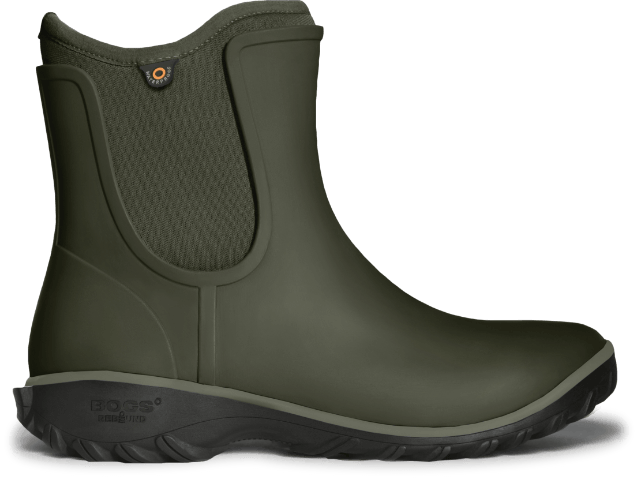
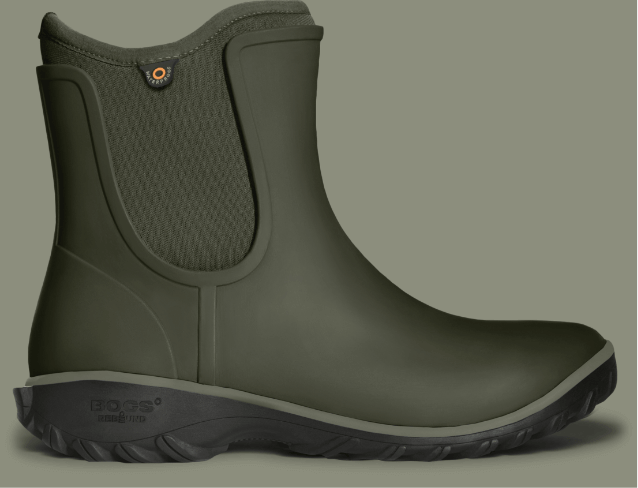
Shadow on images fixed
Shadow on images fixed

diff --git a/temp/scripts/App.js b/temp/scripts/App.js
@@ -1308,20 +1308,6 @@ $(document).on(
   ".feature-product__aug .feature_slider__slide.swiper-slide-prev",
   function () {
     window.featuredSliderUnique.slidePrev();
-    // console.log('Prev Click');
-
-    // var vid = $(this).children('video');
-    // var allVid = $('.feature_slider__slide').children('video');
-
-    // allVid.removeAttr('autoplay');
-    // allVid.removeAttr('loop');
-    // allVid.removeAttr('playinline');
-    // allVid.get(0).pause();
-
-    // vid.attr('autoplay','autoplay');
-    // vid.attr('loop','');
-    // vid.attr('playinline','');
-    // vid.get(0).play();
   }
 );
 $(document).on(
@@ -1329,19 +1315,5 @@ $(document).on(
   ".feature-product__aug .feature_slider__slide.swiper-slide-next",
   function () {
     window.featuredSliderUnique.slideNext();
-    // console.log('Next click');
-
-    // var vid = $(this).children('video');
-    // var allVid = $('.feature_slider__slide').children('video');
-
-    // allVid.removeAttr('autoplay');
-    // allVid.removeAttr('loop');
-    // allVid.removeAttr('playinline');
-    // allVid.get(0).pause();
-
-    // vid.attr('autoplay','autoplay');
-    // vid.attr('loop','');
-    // vid.attr('playinline','');
-    // vid.get(0).play();
   }
 );
